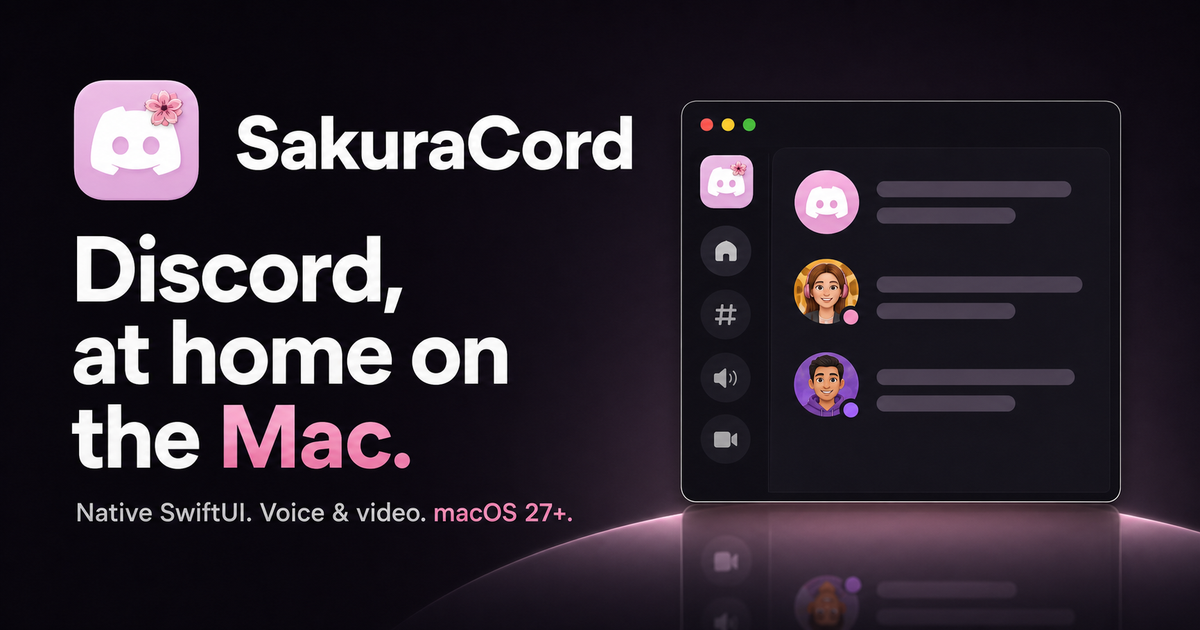
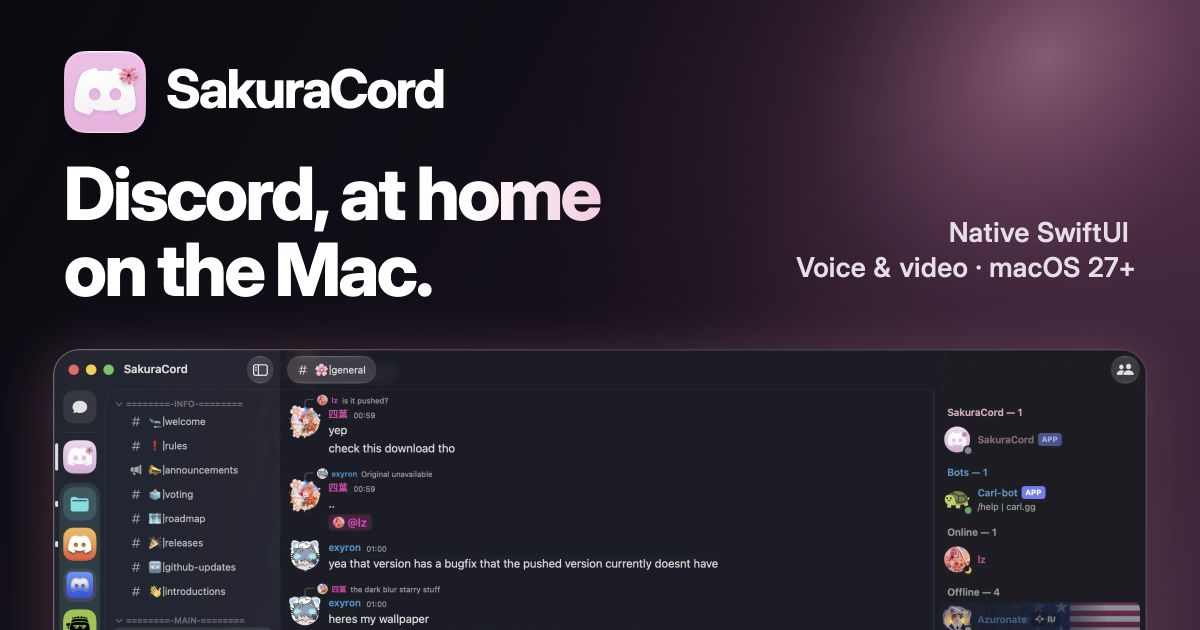
Replace AI social preview with product screenshot

diff --git a/app/layout.tsx b/app/layout.tsx
@@ -25,7 +25,7 @@ export const metadata: Metadata = {
         url: "/og.png",
         width: 1200,
         height: 630,
-        alt: "SakuraCord, Discord at home on the Mac",
+        alt: "SakuraCord branding above a real screenshot of the macOS client",
       },
     ],
   },
